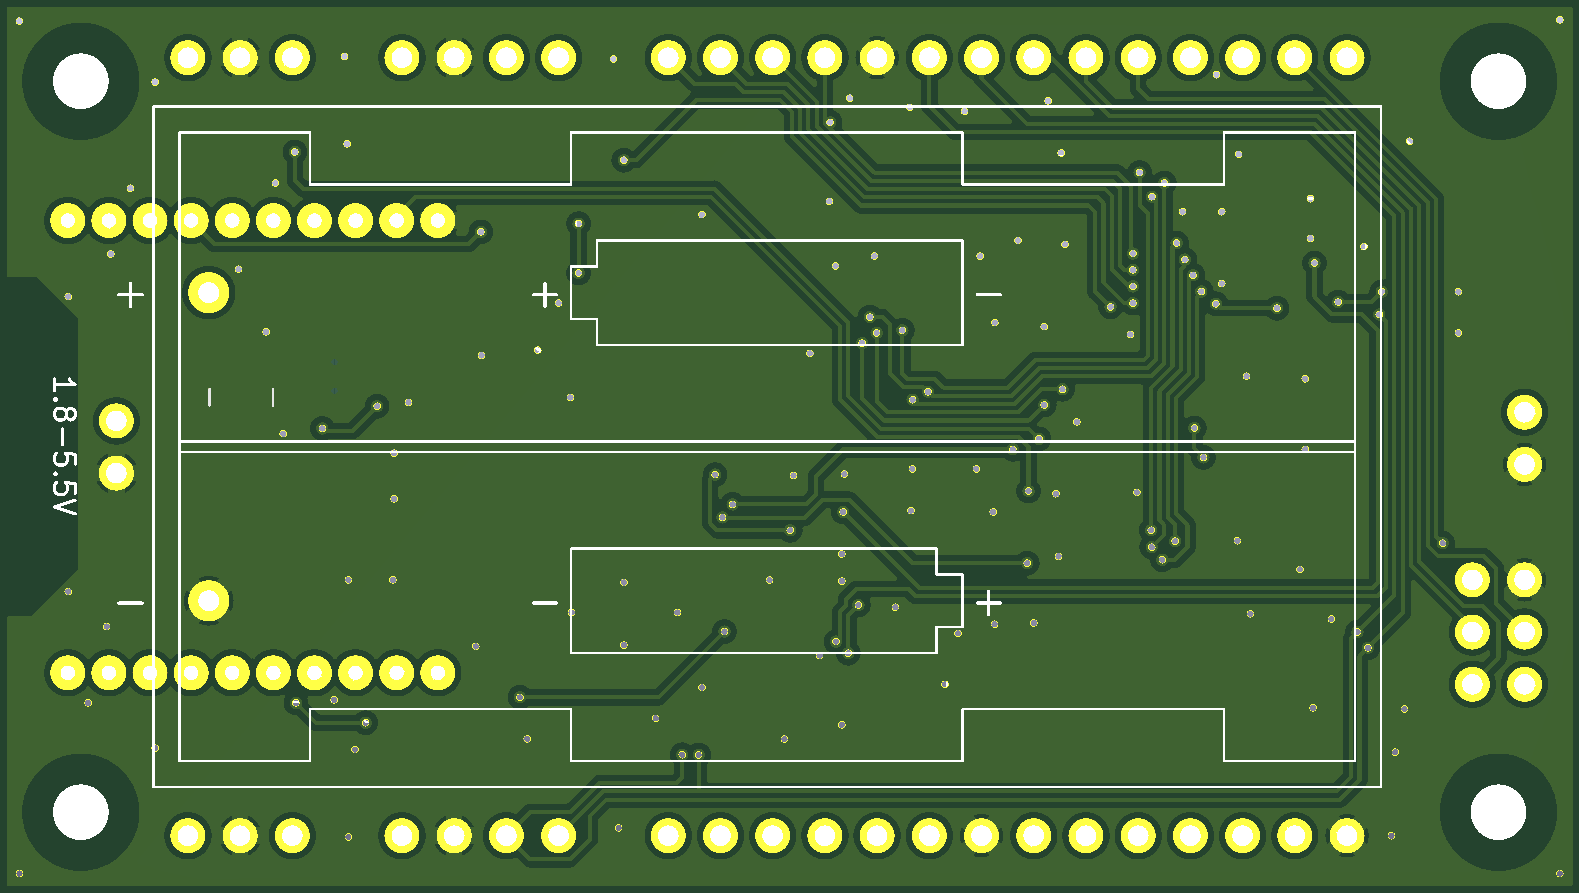
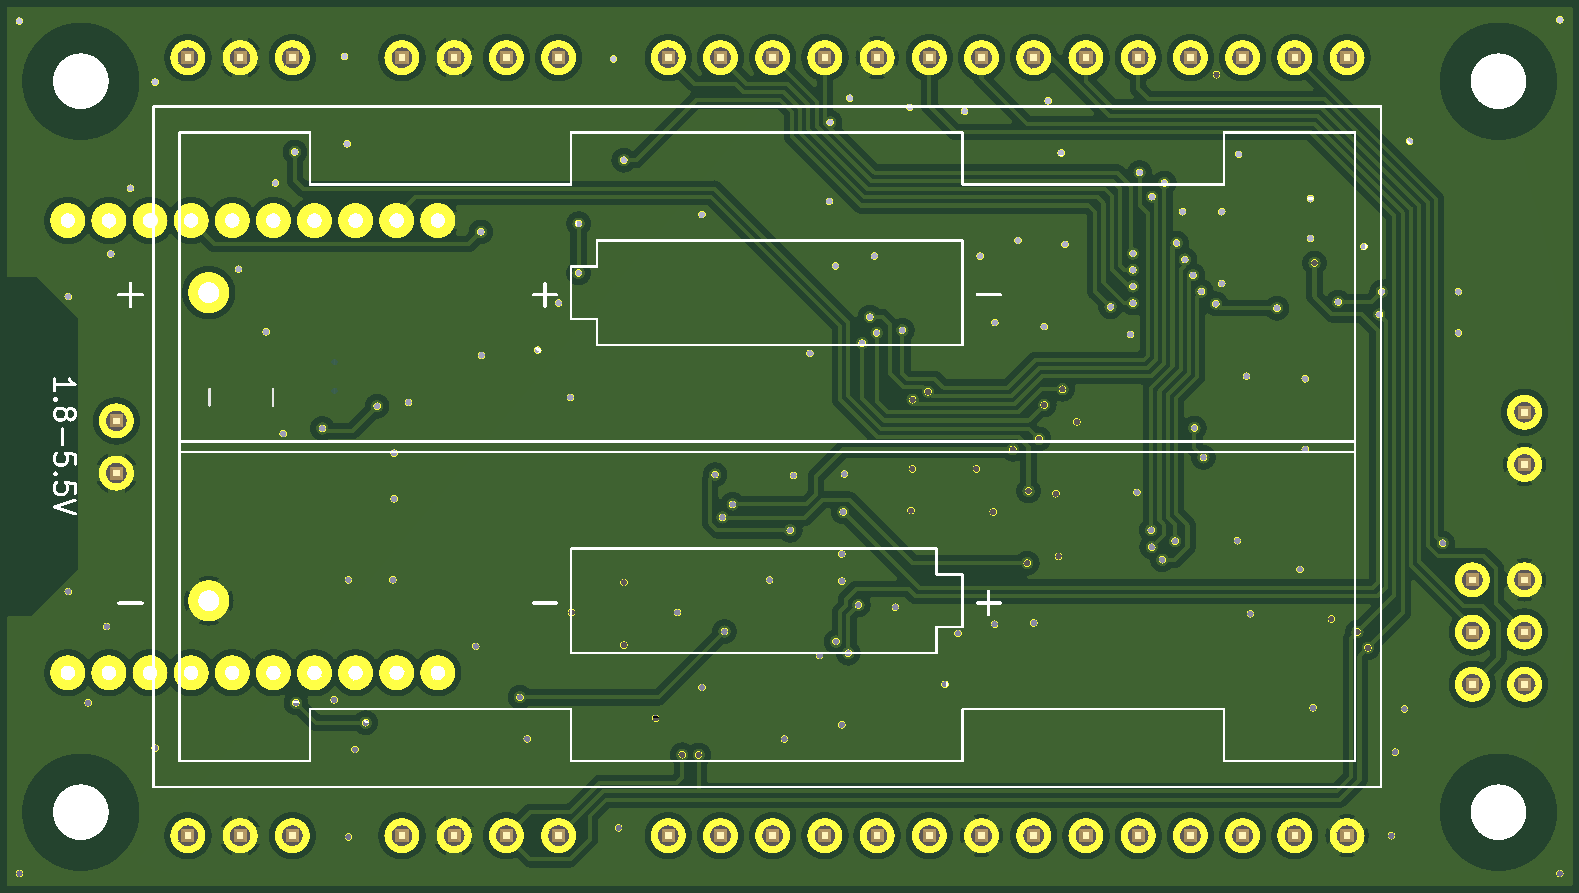
Added 3d components to PCB previews

diff --git a/README.md b/README.md
@@ -3,6 +3,8 @@
 The **A**VR-based **S**ensor **N**ode with **X**bee, short **ASN(x)**, is a low-cost platform for low-power sensor nodes specifically for (environmental) monitoring applications, both indoor and outdoor.
 It was designed with a focus on energy efficiency and robustness.
 
+![PCB front (/media/pcb/avr_sensor_node-3d.png)](/media/pcb/avr_sensor_node-3d.png)
+
 
 ## Key Facts
 
